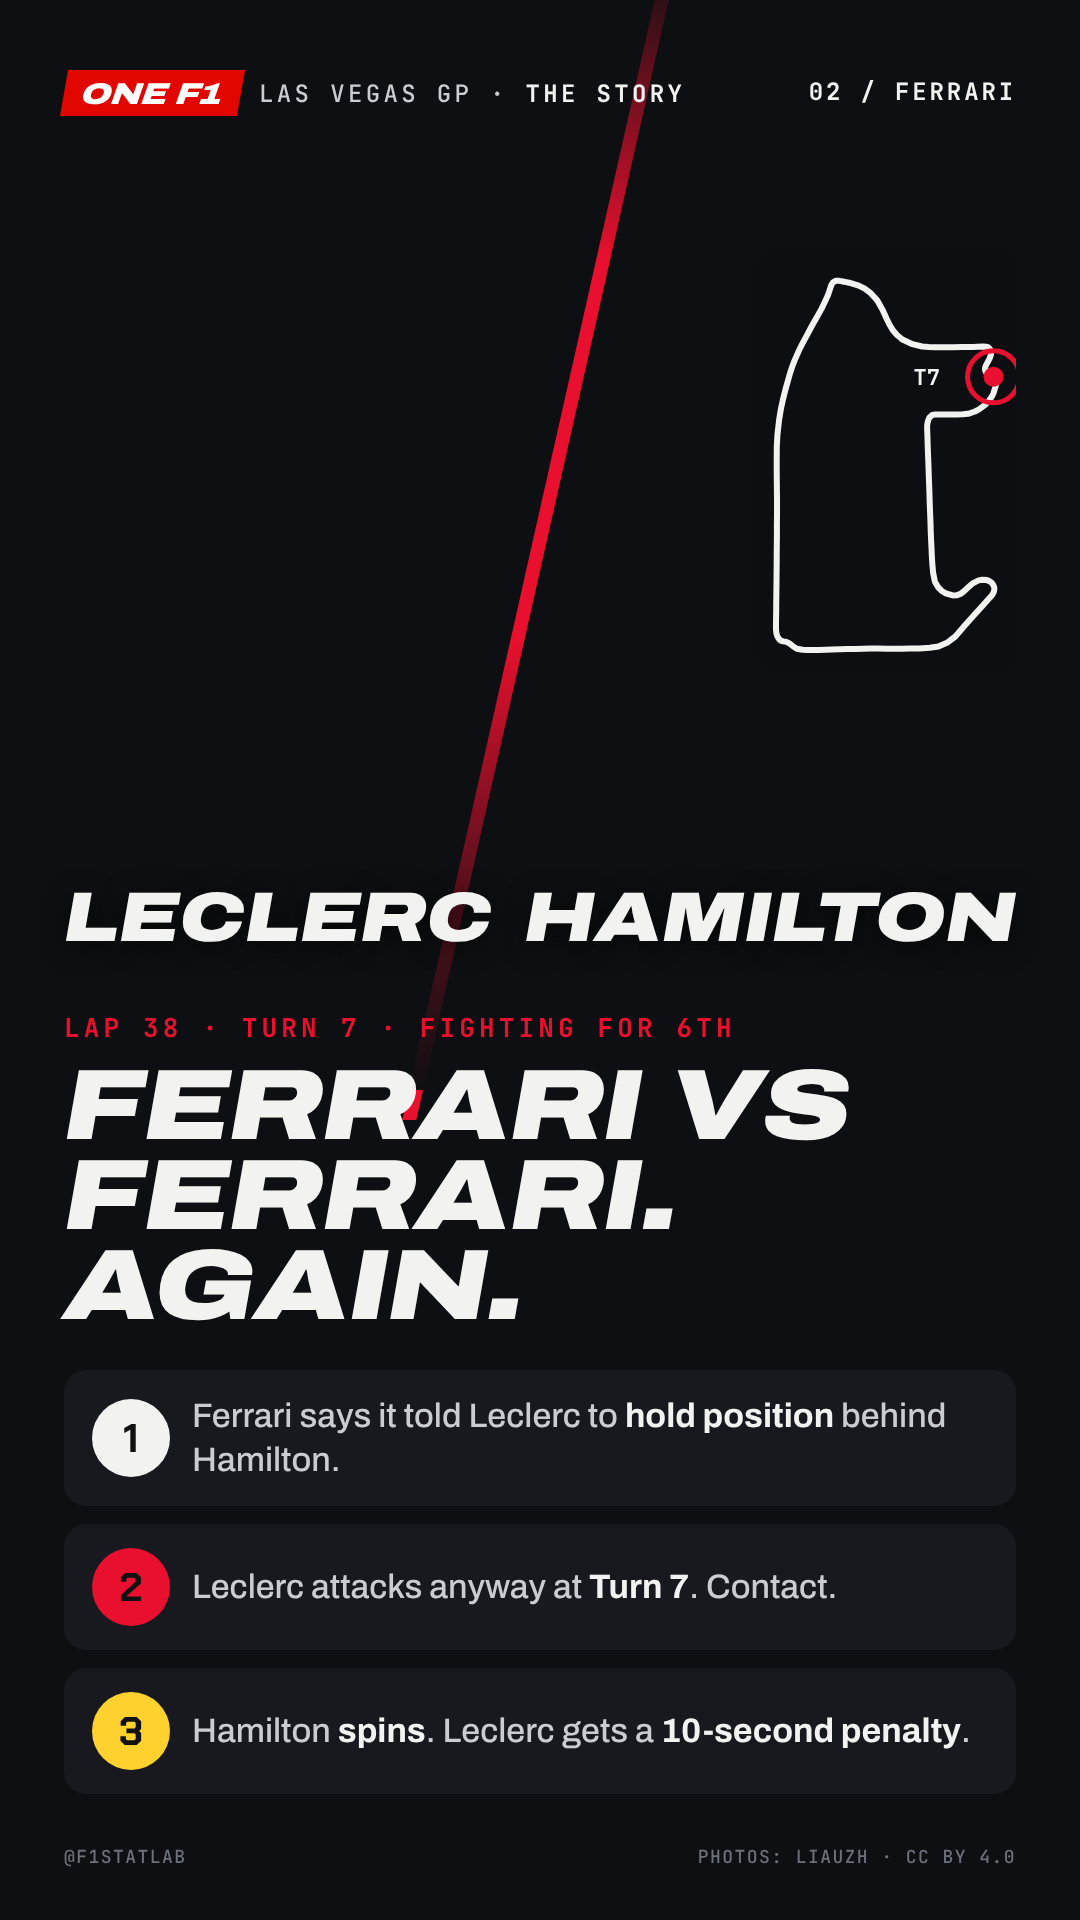
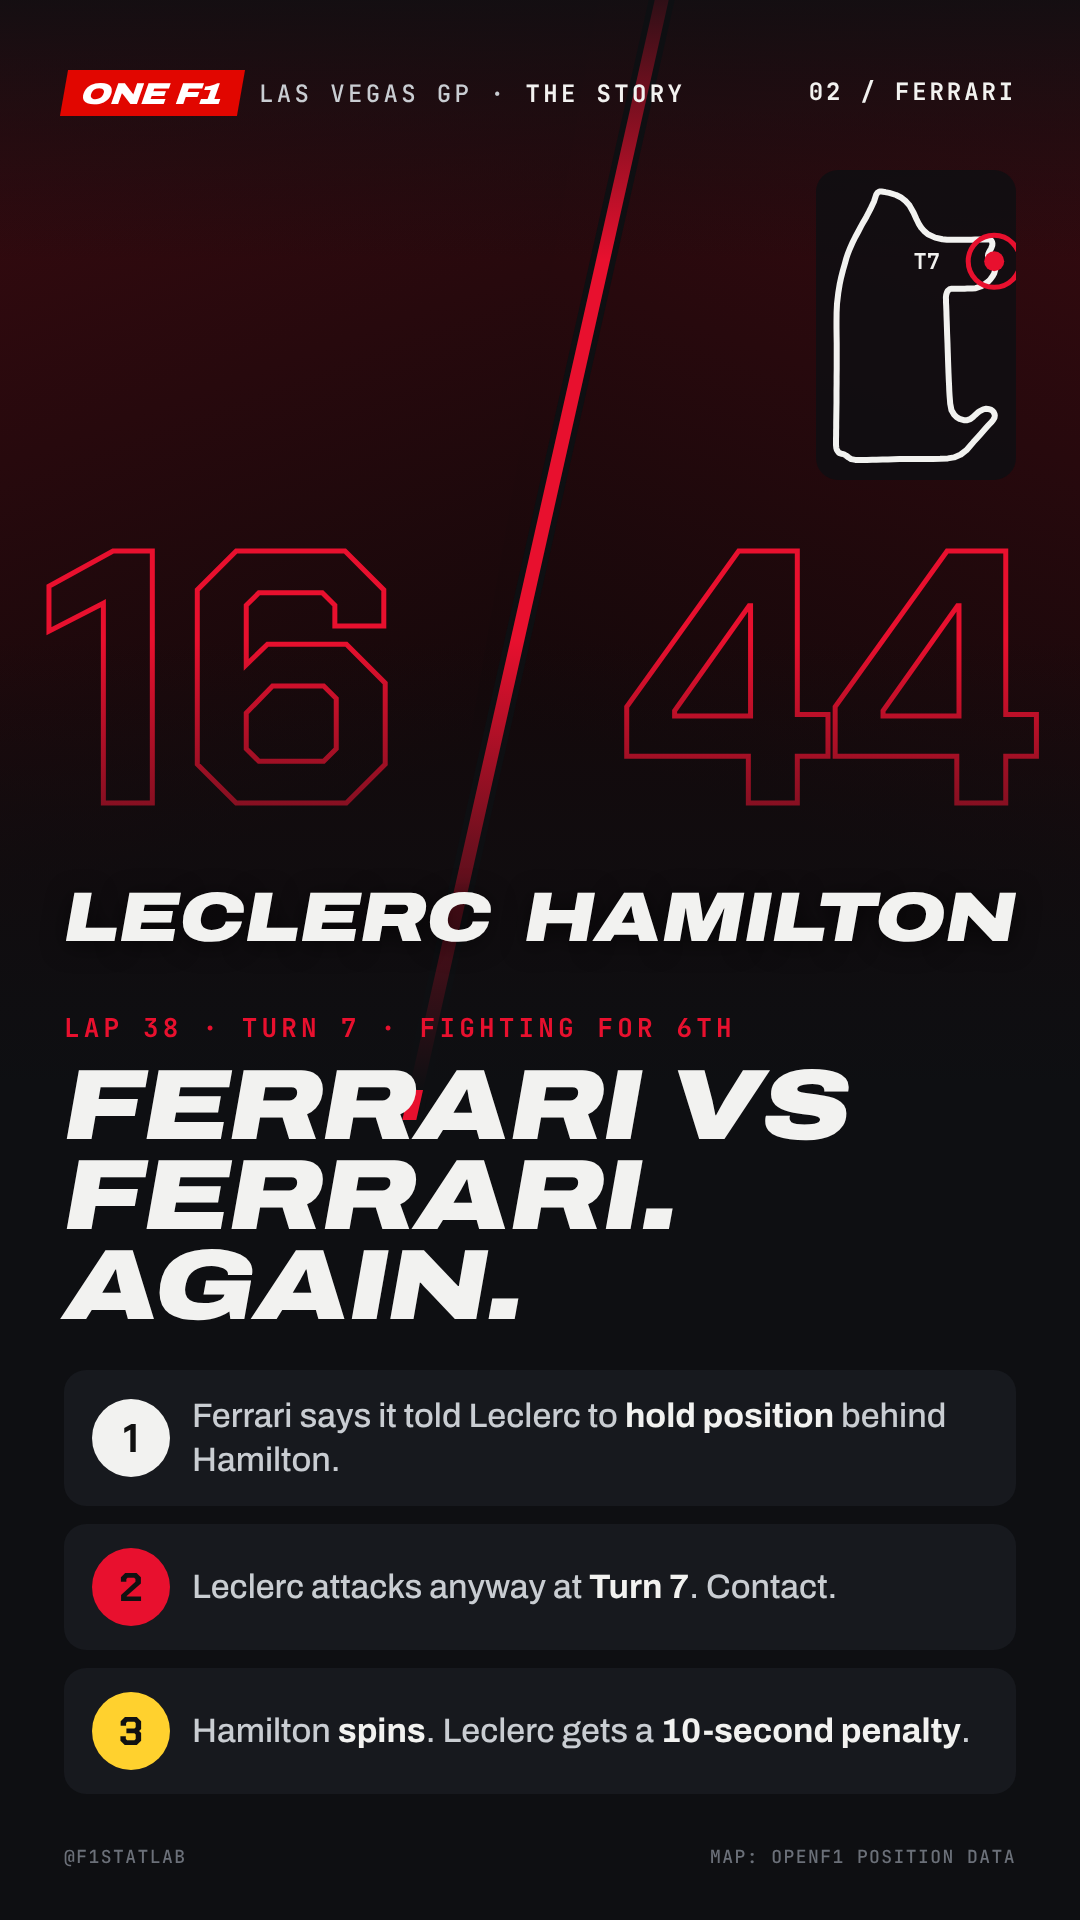
Story frames: Antonelli photo; Ferrari frame uses car numbers until CC photos are available
Claude-Session: https://claude.ai/code/session_016E9C1XvYpsSCiakD2mRjGd

diff --git a/content/vegas-race-recap/story.built.html b/content/vegas-race-recap/story.built.html
@@ -78,7 +78,9 @@ html,body { width:1080px; height:1920px; overflow:hidden; background:var(--bg); 
 
 <!-- 3 FERRARI: what happened -->
 <section class="f" id="f3">
-  <div class="split"><div class="a" style="background-image:url(img/leclerc.jpg);background-position:40% 50%"></div><div class="b" style="background-image:url(img/hamilton.jpg);background-position:60% 50%"></div><div class="bar"></div></div>
+  <div class="split"><div class="a" style="background:linear-gradient(160deg,#3A0A10,#14080A 70%)"></div><div class="b" style="background:linear-gradient(200deg,#3A0A10,#14080A 70%)"></div><div class="bar"></div>
+    <div class="abs num" style="left:40px;top:500px;font-size:360px;line-height:1;color:transparent;-webkit-text-stroke:5px var(--fer)">16</div>
+    <div class="abs num" style="right:40px;top:500px;font-size:360px;line-height:1;color:transparent;-webkit-text-stroke:5px var(--fer)">44</div></div>
   <div class="fade" style="top:640px;height:450px"></div><div class="top"></div>
   <div class="hdr"><span class="brand">ONE F1</span><span class="tag">LAS VEGAS GP · <b>THE STORY</b></span></div><div class="ch">02 / FERRARI</div>
   <div class="nm" style="left:64px;top:880px">Leclerc</div><div class="nm" style="right:64px;top:880px">Hamilton</div>
@@ -88,8 +90,8 @@ html,body { width:1080px; height:1920px; overflow:hidden; background:var(--bg); 
     <div class="step" style="--tc:var(--fer)"><i>2</i><span>Leclerc attacks anyway at <b>Turn 7</b>. Contact.</span></div>
     <div class="step" style="--tc:var(--amber)"><i>3</i><span>Hamilton <b>spins</b>. Leclerc gets a <b>10-second penalty</b>.</span></div>
   </div>
-  <svg class="abs" id="map3" style="right:64px;top:250px" width="260" height="420"></svg>
-  <div class="credit"><span>@F1STATLAB</span><span>PHOTOS: LIAUZH · CC BY 4.0</span></div>
+  <svg class="abs" id="map3" style="right:64px;top:170px" width="200" height="310"></svg>
+  <div class="credit"><span>@F1STATLAB</span><span>MAP: OPENF1 POSITION DATA</span></div>
 </section>
 
 <!-- 4 FERRARI: the fallout -->
@@ -178,7 +180,7 @@ const f = +(new URLSearchParams(location.search).get("f") || 1);
 document.getElementById("f" + f).style.display = "block";
 // mini map with the contact point (frame 3)
 (() => {
-  const s = document.getElementById("map3"), W = 260, H = 420, xs = T.outline.map((p) => p[0]), ys = T.outline.map((p) => p[1]);
+  const s = document.getElementById("map3"), W = 200, H = 310, xs = T.outline.map((p) => p[0]), ys = T.outline.map((p) => p[1]);
   const x0 = Math.min(...xs), x1 = Math.max(...xs), y0 = Math.min(...ys), y1 = Math.max(...ys), k = Math.min((W - 40) / (x1 - x0), (H - 40) / (y1 - y0));
   const X = (x) => 20 + (x - x0) * k, Y = (y) => H - 20 - (y - y0) * k;
   const d = T.outline.map((p, i) => (i ? "L" : "M") + X(p[0]).toFixed(1) + "," + Y(p[1]).toFixed(1)).join("") + "Z";

diff --git a/content/vegas-race-recap/story.html b/content/vegas-race-recap/story.html
@@ -78,7 +78,9 @@ html,body { width:1080px; height:1920px; overflow:hidden; background:var(--bg); 
 
 <!-- 3 FERRARI: what happened -->
 <section class="f" id="f3">
-  <div class="split"><div class="a" style="background-image:url(img/leclerc.jpg);background-position:40% 50%"></div><div class="b" style="background-image:url(img/hamilton.jpg);background-position:60% 50%"></div><div class="bar"></div></div>
+  <div class="split"><div class="a" style="background:linear-gradient(160deg,#3A0A10,#14080A 70%)"></div><div class="b" style="background:linear-gradient(200deg,#3A0A10,#14080A 70%)"></div><div class="bar"></div>
+    <div class="abs num" style="left:40px;top:500px;font-size:360px;line-height:1;color:transparent;-webkit-text-stroke:5px var(--fer)">16</div>
+    <div class="abs num" style="right:40px;top:500px;font-size:360px;line-height:1;color:transparent;-webkit-text-stroke:5px var(--fer)">44</div></div>
   <div class="fade" style="top:640px;height:450px"></div><div class="top"></div>
   <div class="hdr"><span class="brand">ONE F1</span><span class="tag">LAS VEGAS GP · <b>THE STORY</b></span></div><div class="ch">02 / FERRARI</div>
   <div class="nm" style="left:64px;top:880px">Leclerc</div><div class="nm" style="right:64px;top:880px">Hamilton</div>
@@ -88,8 +90,8 @@ html,body { width:1080px; height:1920px; overflow:hidden; background:var(--bg); 
     <div class="step" style="--tc:var(--fer)"><i>2</i><span>Leclerc attacks anyway at <b>Turn 7</b>. Contact.</span></div>
     <div class="step" style="--tc:var(--amber)"><i>3</i><span>Hamilton <b>spins</b>. Leclerc gets a <b>10-second penalty</b>.</span></div>
   </div>
-  <svg class="abs" id="map3" style="right:64px;top:250px" width="260" height="420"></svg>
-  <div class="credit"><span>@F1STATLAB</span><span>PHOTOS: LIAUZH · CC BY 4.0</span></div>
+  <svg class="abs" id="map3" style="right:64px;top:170px" width="200" height="310"></svg>
+  <div class="credit"><span>@F1STATLAB</span><span>MAP: OPENF1 POSITION DATA</span></div>
 </section>
 
 <!-- 4 FERRARI: the fallout -->
@@ -178,7 +180,7 @@ const f = +(new URLSearchParams(location.search).get("f") || 1);
 document.getElementById("f" + f).style.display = "block";
 // mini map with the contact point (frame 3)
 (() => {
-  const s = document.getElementById("map3"), W = 260, H = 420, xs = T.outline.map((p) => p[0]), ys = T.outline.map((p) => p[1]);
+  const s = document.getElementById("map3"), W = 200, H = 310, xs = T.outline.map((p) => p[0]), ys = T.outline.map((p) => p[1]);
   const x0 = Math.min(...xs), x1 = Math.max(...xs), y0 = Math.min(...ys), y1 = Math.max(...ys), k = Math.min((W - 40) / (x1 - x0), (H - 40) / (y1 - y0));
   const X = (x) => 20 + (x - x0) * k, Y = (y) => H - 20 - (y - y0) * k;
   const d = T.outline.map((p, i) => (i ? "L" : "M") + X(p[0]).toFixed(1) + "," + Y(p[1]).toFixed(1)).join("") + "Z";
